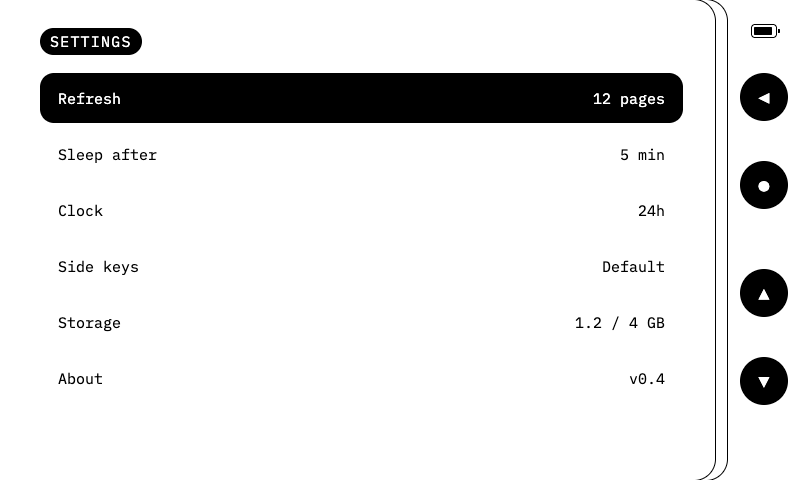
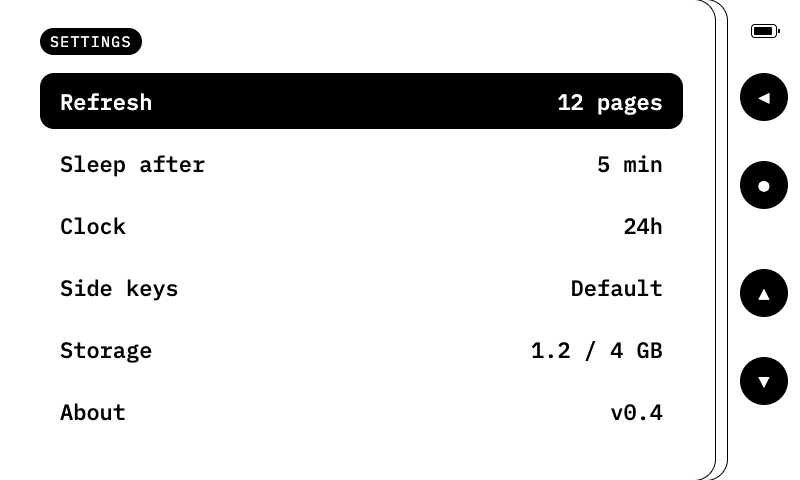
X4 shell: larger selectable text, native-size images, paused sleep screen
- Settings and option rows use the 22px medium font (56px rows, 62px
  pitch, 220px option column), per the updated design spec; 15px is kept
  for non-selectable text only.
- Image viewer draws BMPs at native resolution, never scaled: pinned to the
  top-left and cropped when larger than the card, centred when smaller.
  GfxRenderer::drawBitmap now reads and skips off-screen rows of bottom-up
  BMPs instead of stopping at the first one, so tall unscaled images draw.
- Auto-sleep leaves the current page on the panel with chrome hidden and a
  paused badge in the bottom-right corner; holding Power still blanks to
  "Sleeping".
- Add scripts/img2bmp.py to convert PNG/JPG into 800x480 1-bit BMPs, and
  ignore samples/.

Not yet verified on hardware.

diff --git a/xteink-x4-platformio/scripts/img2bmp.py b/xteink-x4-platformio/scripts/img2bmp.py
@@ -1,0 +1,100 @@
+#!/usr/bin/env python3
+"""Convert PNG/JPG images into 1-bit BMPs sized for the X4 screen.
+
+    python3 scripts/img2bmp.py photo.jpg [more.png ...] [-o out_dir]
+
+Each image is scaled and centre-cropped to fill 800x480 (the whole landscape
+screen), converted to grayscale and dithered to pure black and white. The
+result is a 1 bpp BMP that ImageApp draws pixel for pixel, with no scaling or
+dithering on the device. With the chrome shown the card is narrower (716 px),
+and the device crops the right-hand edge: it never scales, and pins images
+larger than the card to the top-left.
+
+Copy the output to /images on the SD card. Needs Pillow.
+"""
+import argparse
+import sys
+from pathlib import Path
+
+from PIL import Image, ImageEnhance, ImageOps
+
+SCREEN_W, SCREEN_H = 800, 480
+
+
+def parse_size(value):
+    try:
+        w, h = (int(v) for v in value.lower().split("x"))
+    except ValueError:
+        raise argparse.ArgumentTypeError(f"expected WxH, got {value!r}")
+    return w, h
+
+
+def convert(src, size, fit, dither, threshold, contrast, brightness, autocontrast):
+    img = ImageOps.exif_transpose(Image.open(src))
+    # Flatten transparency onto white, the e-ink background.
+    if img.mode in ("RGBA", "LA", "PA") or (img.mode == "P" and "transparency" in img.info):
+        img = img.convert("RGBA")
+        bg = Image.new("RGBA", img.size, "white")
+        img = Image.alpha_composite(bg, img)
+    img = img.convert("L")
+
+    if fit == "cover":
+        img = ImageOps.fit(img, size, Image.LANCZOS)
+    else:
+        img = ImageOps.pad(img, size, Image.LANCZOS, color=255)
+
+    if autocontrast:
+        img = ImageOps.autocontrast(img, cutoff=1)
+    if contrast != 1.0:
+        img = ImageEnhance.Contrast(img).enhance(contrast)
+    if brightness != 1.0:
+        img = ImageEnhance.Brightness(img).enhance(brightness)
+
+    if dither == "none":
+        return img.point(lambda v: 255 if v >= threshold else 0, "1")
+    return img.convert("1", dither=Image.Dither.FLOYDSTEINBERG)
+
+
+def main():
+    ap = argparse.ArgumentParser(description=__doc__, formatter_class=argparse.RawDescriptionHelpFormatter)
+    ap.add_argument("inputs", nargs="+", type=Path, help="PNG or JPG files")
+    ap.add_argument("-o", "--out", type=Path, help="output directory (default: next to each input)")
+    ap.add_argument("--size", type=parse_size, default=(SCREEN_W, SCREEN_H),
+                    help=f"output WxH (default {SCREEN_W}x{SCREEN_H})")
+    ap.add_argument("--fit", choices=("cover", "contain"), default="cover",
+                    help="cover: fill and crop (default); contain: whole image, white bars")
+    ap.add_argument("--dither", choices=("fs", "none"), default="fs",
+                    help="fs: Floyd-Steinberg (photos, default); none: hard threshold (line art, text)")
+    ap.add_argument("--threshold", type=int, default=128, help="cut-off for --dither none (0-255)")
+    ap.add_argument("--contrast", type=float, default=1.0, help="contrast factor, e.g. 1.2")
+    ap.add_argument("--brightness", type=float, default=1.0, help="brightness factor, e.g. 1.1")
+    ap.add_argument("--autocontrast", action="store_true", help="stretch levels before dithering")
+    ap.add_argument("--preview", action="store_true", help="also write a .preview.png of the result")
+    args = ap.parse_args()
+
+    if args.out:
+        args.out.mkdir(parents=True, exist_ok=True)
+
+    failed = 0
+    for src in args.inputs:
+        dest = (args.out or src.parent) / (src.stem + ".bmp")
+        if dest.resolve() == src.resolve():
+            print(f"skip {src}: output would overwrite the input", file=sys.stderr)
+            failed += 1
+            continue
+        try:
+            img = convert(src, args.size, args.fit, args.dither, args.threshold,
+                          args.contrast, args.brightness, args.autocontrast)
+        except OSError as e:
+            print(f"skip {src}: {e}", file=sys.stderr)
+            failed += 1
+            continue
+        img.save(dest, "BMP")
+        if args.preview:
+            img.save(dest.with_suffix(".preview.png"))
+        print(f"{src} -> {dest} ({img.width}x{img.height}, 1 bpp)")
+    return 1 if failed else 0
+
+
+if __name__ == "__main__":
+    sys.exit(main())

diff --git a/xteink-x4-platformio/src/apps/ImageApp.cpp b/xteink-x4-platformio/src/apps/ImageApp.cpp
@@ -36,21 +36,15 @@ void drawMessage(GfxRenderer& r, const layout::Rect& area, const bool chrome, co
   }
 }
 
-// Draw the bitmap scaled and centre-cropped to cover `area`. drawBitmap only
-// scales down, so small images are centred instead.
-bool drawCover(GfxRenderer& r, Bitmap& bitmap, const layout::Rect& area) {
-  const float bw = bitmap.getWidth(), bh = bitmap.getHeight();
-  const float areaAspect = static_cast<float>(area.w) / area.h;
-  float cropX = 0, cropY = 0;
-  if (bw / bh > areaAspect) {
-    cropX = 1.0f - areaAspect * bh / bw;
-  } else {
-    cropY = 1.0f - bw / (areaAspect * bh);
-  }
-  const float cw = bw * (1 - cropX), ch = bh * (1 - cropY);
-  const float scale = std::min(1.0f, area.w / cw);
-  const int w = static_cast<int>(cw * scale), h = static_cast<int>(ch * scale);
-  return r.drawBitmap(bitmap, area.x + (area.w - w) / 2, area.y + (area.h - h) / 2, area.w, area.h, cropX, cropY);
+// Where an image of `size` starts along an axis of `avail` pixels: centred
+// when it fits, otherwise pinned to the start and cropped by the clip rect.
+int imageOrigin(const int size, const int avail) { return size > avail ? 0 : (avail - size) / 2; }
+
+// Draw the bitmap at its native resolution; never scaled.
+bool drawNative(GfxRenderer& r, const Bitmap& bitmap, const layout::Rect& area) {
+  const int x = area.x + imageOrigin(bitmap.getWidth(), area.w);
+  const int y = area.y + imageOrigin(bitmap.getHeight(), area.h);
+  return r.drawBitmap(bitmap, x, y, 0, 0);  // no max size: no scaling
 }
 
 }  // namespace
@@ -104,7 +98,7 @@ void ImageApp::render(GfxRenderer& r, const layout::Rect& area, const bool chrom
     Bitmap bitmap(file, true);
     const auto err = bitmap.parseHeaders();
     if (err == BmpReaderError::Ok) {
-      drawn = drawCover(r, bitmap, area);
+      drawn = drawNative(r, bitmap, area);
     } else {
       LOG_ERR("IMG", "%s: %s", path.c_str(), Bitmap::errorToString(err));
     }

diff --git a/xteink-x4-platformio/src/main.cpp b/xteink-x4-platformio/src/main.cpp
@@ -37,11 +37,17 @@ unsigned long lastActivityMs = 0;
 // The hold that woke the device must be released before a new hold can sleep it.
 bool powerReleasedSinceWake = false;
 
-void enterDeepSleep() {
+// `paused`: an idle timeout. Leave the current page on the panel, chrome
+// hidden, with a paused badge. Otherwise (Power held) blank to "Sleeping".
+void enterDeepSleep(const bool paused) {
   LOG_INF("MAIN", "Entering deep sleep");
-  renderer.clearScreen();
-  renderer.drawCenteredText(fonts::MEDIUM_22, layout::kScreenH / 2 - 20, "Sleeping");
-  renderer.displayBuffer(HalDisplay::HALF_REFRESH);
+  if (paused) {
+    shell.showPaused();
+  } else {
+    renderer.clearScreen();
+    renderer.drawCenteredText(fonts::MEDIUM_22, layout::kScreenH / 2 - 20, "Sleeping");
+    renderer.displayBuffer(HalDisplay::HALF_REFRESH);
+  }
   display.deepSleep();
   Storage.prepareForDeepSleep();
   powerManager.startDeepSleep(gpio);
@@ -190,10 +196,10 @@ void loop() {
   if (!gpio.isPressed(HalGPIO::BTN_POWER)) powerReleasedSinceWake = true;
   if (powerReleasedSinceWake && gpio.isPressed(HalGPIO::BTN_POWER) &&
       gpio.getPowerButtonHeldTime() > kPowerHoldToSleepMs) {
-    enterDeepSleep();
+    enterDeepSleep(false);
   }
   const unsigned long sleepAfterMs = settings::value(settings::kSleep) * 60UL * 1000UL;  // 0 = never
-  if (sleepAfterMs > 0 && millis() - lastActivityMs > sleepAfterMs) enterDeepSleep();
+  if (sleepAfterMs > 0 && millis() - lastActivityMs > sleepAfterMs) enterDeepSleep(true);
 
   shell.tick();
   shell.flush();

diff --git a/xteink-x4-platformio/src/shell/Shell.cpp b/xteink-x4-platformio/src/shell/Shell.cpp
@@ -107,7 +107,19 @@ int Shell::depth() const {
   return std::min(layout::kMaxDepth, 1 + current_->depth());
 }
 
+void Shell::showPaused() {
+  chrome_ = false;
+  drawScreen();
+  drawPausedBadge();
+  renderer_.displayBuffer(HalDisplay::HALF_REFRESH);
+}
+
 void Shell::redraw(const bool clean) {
+  drawScreen();
+  present(clean);
+}
+
+void Shell::drawScreen() {
   renderer_.clearScreen();
   const auto area = chrome_ ? layout::cardArea(depth()) : layout::kFullScreen;
   renderer_.setClipRect(area.x, area.y, area.w, area.h);
@@ -121,7 +133,6 @@ void Shell::redraw(const bool clean) {
     drawCardStack(depth());
     drawGutter();
   }
-  present(clean);
 }
 
 void Shell::drawHome(const layout::Rect& area) {
@@ -214,6 +225,18 @@ void Shell::drawGutter() const {
       }
     }
   }
+}
+
+void Shell::drawPausedBadge() const {
+  // A key button's size, in the gutter's column, inset from the bottom edge by
+  // the same margin the buttons keep from the right edge.
+  constexpr int R = layout::kKeyRadius;
+  constexpr int cx = layout::kKeyCenterX;
+  constexpr int cy = layout::kScreenH - (layout::kScreenW - layout::kKeyCenterX);
+  renderer_.fillRoundedRect(cx - R, cy - R, R * 2, R * 2, R, Color::Black);
+  // ❚❚
+  renderer_.fillRect(cx - 6, cy - 6, 4, 13, false);
+  renderer_.fillRect(cx + 2, cy - 6, 4, 13, false);
 }
 
 void Shell::present(const bool clean) {

diff --git a/xteink-x4-platformio/src/ui/Widgets.h b/xteink-x4-platformio/src/ui/Widgets.h
@@ -31,7 +31,8 @@ int drawPill(GfxRenderer& r, int font, int x, int y, const char* text, bool blac
 int drawTitle(GfxRenderer& r, const layout::Rect& area, const char* title);
 
 // One selectable row: optional icon, label, and a value right-aligned. The
-// selected row is a black pill with white text.
+// selected row is a black pill with white text. Anything selectable uses the
+// medium font; the small one is too thin to read on e-ink except as decoration.
 struct RowStyle {
   int height;
   int pitch;  // row-to-row distance
@@ -39,7 +40,7 @@ struct RowStyle {
   int font;
 };
 constexpr RowStyle kHomeRow{60, 68, 16, fonts::MEDIUM_22};
-constexpr RowStyle kListRow{50, 56, 14, fonts::SMALL_15};
+constexpr RowStyle kListRow{56, 62, 14, fonts::MEDIUM_22};
 void drawRow(GfxRenderer& r, const layout::Rect& row, const RowStyle& style, Icon icon, const char* label,
              const char* value, bool selected);
 

diff --git a/xteink-x4-platformio/lib/GfxRenderer/GfxRenderer.cpp b/xteink-x4-platformio/lib/GfxRenderer/GfxRenderer.cpp
@@ -1453,8 +1453,8 @@ bool GfxRenderer::drawBitmap(const Bitmap& bitmap, const int x, const int y, con
       screenY = std::floor(screenY * scale);
     }
     screenY += y;  // the offset should not be scaled
-    if (screenY >= getScreenHeight()) {
-      break;
+    if (screenY >= getScreenHeight() && bitmap.isTopDown()) {
+      break;  // every later row is further down
     }
 
     if (bitmap.readNextRow(outputRow, rowBytes) != BmpReaderError::Ok) {
@@ -1463,7 +1463,9 @@ bool GfxRenderer::drawBitmap(const Bitmap& bitmap, const int x, const int y, con
       return false;
     }
 
-    if (screenY < 0) {
+    // Bottom-up files deliver their off-screen rows first; read and skip them
+    // to keep the row counter in sync (as drawBitmap1Bit does).
+    if (screenY < 0 || screenY >= getScreenHeight()) {
       continue;
     }
 

diff --git a/xteink-x4-platformio/src/shell/Shell.h b/xteink-x4-platformio/src/shell/Shell.h
@@ -31,12 +31,18 @@ class Shell {
   // Mark the screen dirty. `clean` asks for a half refresh.
   void invalidate(bool clean = false);
 
+  // Before auto-sleep: repaint the current page with chrome hidden and a
+  // paused badge in the bottom-right corner, to stay on the panel while asleep.
+  void showPaused();
+
  private:
   int depth() const;
   int clockMinute() const;
   void drawHome(const layout::Rect& area);
   void drawCardStack(int depth) const;
   void drawGutter() const;
+  void drawPausedBadge() const;
+  void drawScreen();
   void redraw(bool clean);
   void present(bool clean);
 

diff --git a/xteink-x4-platformio/src/apps/ImageApp.h b/xteink-x4-platformio/src/apps/ImageApp.h
@@ -5,8 +5,9 @@
 
 #include "../shell/App.h"
 
-// Shows the BMP files in /images on the SD card, one per page, filling the
-// card. Up/Down step through them.
+// Shows the BMP files in /images on the SD card, one per page, at native
+// resolution: larger images are cropped from the top-left, smaller ones
+// centred. Up/Down step through them.
 class ImageApp : public App {
  public:
   const char* name() const override { return "Images"; }

diff --git a/xteink-x4-platformio/src/ui/Widgets.cpp b/xteink-x4-platformio/src/ui/Widgets.cpp
@@ -14,7 +14,7 @@ constexpr int kRightMargin = 33;      // rows stop this far from the card edge
 constexpr int kPillPadX = 10;
 constexpr int kRowIconInset = 22;
 constexpr int kRowIconLabelInset = 57;
-constexpr int kRowTextInset = 19;
+constexpr int kRowTextInset = 20;
 constexpr int kInfoValueOffset = 170;  // value column, from the label column
 constexpr int kInfoPitch = 34;
 

diff --git a/xteink-x4-platformio/src/apps/SettingsApp.cpp b/xteink-x4-platformio/src/apps/SettingsApp.cpp
@@ -40,7 +40,7 @@ constexpr int kUnitGap = 12;
 constexpr int kDescBaseline = 410;
 constexpr int kDescPitch = 19;
 constexpr int kDescWidth = 290;
-constexpr int kOptionsW = 200;
+constexpr int kOptionsW = 220;
 constexpr int kOptionsRight = 33;   // from the card edge
 constexpr int kOptionsBottom = 28;  // from the card bottom
 

diff --git a/xteink-x4-platformio/README.md b/xteink-x4-platformio/README.md
@@ -44,7 +44,11 @@ one: ◀ ● ▲ ▼.
 | Front 4, bottom (portrait "Back") | **Down** (next image) |
 | Side key, top edge (next to Power) | Show / hide chrome: gutter, titles, captions |
 | Side key, bottom edge | unassigned |
-| Power (hold 1s) | Sleep |
+| Power (hold 1s) | Sleep (blanks to "Sleeping") |
+
+After the Settings → Sleep after timeout the device also sleeps, but leaves the
+current page on screen with the chrome hidden and a ❚❚ badge in the bottom-right
+corner. Power wakes it, back to home.
 
 Navigation: **Home** shows the date, a large clock (from the X4C's BM8563 RTC)
 and a row per app; Up/Down move between rows and Select opens one. **Images**
@@ -121,11 +125,15 @@ The clock shows `--:--` until the RTC has been set once.
 ## Images
 
 Put `.bmp` files in `/images` on the SD card. Any uncompressed BMP (1–32 bpp)
-works: the device scales it down to fit and dithers it. Pre-sizing makes
-drawing faster. On macOS:
+works. The device never scales: it draws at native resolution, pinned to the
+top-left and cropped when larger than the card (716 × 480 with chrome, 800 × 480
+without), centred when smaller. `scripts/img2bmp.py` (needs Pillow) turns PNGs and JPGs into
+800×480 1-bit BMPs that the device draws as-is:
 
 ```sh
-sips -Z 620 -s format bmp photo.jpg --out photo.bmp
+python3 scripts/img2bmp.py photo.jpg art.png -o out/       # fill and crop, dithered
+python3 scripts/img2bmp.py sketch.png --dither none        # hard threshold for line art
+python3 scripts/img2bmp.py photo.jpg --fit contain --preview   # letterbox, write a PNG preview
 ```
 
 ## Layout

diff --git a/xteink-x4-platformio/docs/design/README.md b/xteink-x4-platformio/docs/design/README.md
@@ -12,9 +12,9 @@ Device: 800×480 landscape, 1-bit e-ink. PNGs are 1:1 device pixels.
 ## Type — three sizes only
 IBM Plex Mono throughout.
 - Display 136px, weight 400, letter-spacing −0.05em — clock, setting value.
-- Medium 22px, weight 500 — home list labels, setting titles, unit suffix ("pages").
-- Small 15px, weight 400 — everything else: date pill, section pills (uppercase, tracking .08em), list rows, filenames, counters, descriptions.
-Rows: home items 60px / radius 16; list rows 50px / radius 14.
+- Medium 22px, weight 500 — anything with a highlight/selected state (home items, settings rows, option rows), setting titles, unit suffix ("pages").
+- Small 15px, weight 400 — non-selectable text only: date pill, section pills (uppercase, tracking .08em), filenames, counters, descriptions.
+Rows: home items 60px / radius 16; list rows 56px / radius 14; selected row = black fill, white text.
 
 ## Screens
 1. home — date pill, clock, vertical list: Images (selected), Settings.
